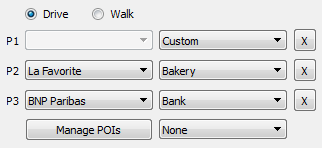
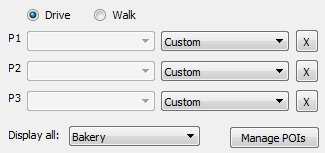
GUI C++ part of the report

diff --git a/SE_Report/Report_SE.tex b/SE_Report/Report_SE.tex
@@ -73,11 +73,11 @@ In order to manage the whole our project and its tasks, we have chosen the web-b
 \caption{Image of the task manager during the development process at early stages. The work is divided in four different boards with multiple drag and drop tasks and is assigned to one person}
 \end{figure}
 
-At the same time, real world meetings were not avoided. Normally we tried to establish team meeting at least once in a week. In such meetings we have discussed common problems, created good ideas or simply tried to brainstorm as many ideas as possible.Afterwards, the results of such meetings were definitely moved to the interactive board in \textit{Trello}.
+At the same time, real world meetings were not avoided. Normally, we tried to establish team meeting at least once in a week. In such meetings we have discussed common problems, created good ideas or simply tried to brainstorm as many ideas as possible.Afterwards, the results of such meetings were definitely moved to the interactive board in \textit{Trello}.
 
 \begin{figure}[!h]
 \centering
-\includegraphics[width=0.7\textwidth]{windowBoard.jpg}
+\includegraphics[width=0.6\textwidth]{windowBoard.jpg}
 \caption{One of the team meeting. Window is used as a white board to gather all ideas/problems.}
 \end{figure}
 
@@ -90,6 +90,8 @@ In both cases, Matlab and C++ implementation, the decision was to work with data
 
 Despite sharing the same EER schema, the database chosen for the Matlab part it is different from the one chosen for the C++ part. In this way, we decided to use PostgreSQL just because it is easier to make it work together with Matlab and using MySQL 5.6 with Qt which was more familiar to us. But also, the fact that we chose two different databases made us able to change between them if some problems of generation had been encountered. Note that we have used the correspondent browser of both platforms.
 
+Finally, a git server hosted in bitBucket (https://bitbucket.org) was used to control the different versions of the code and to be able to maintain work at the same time easily.
+
 \subsection{Related works}
 
 In order to be able to design a user-friendly and helpful application it is necessary to have a look to the current work, for instance GoogleMaps (https://maps.google.com/) or another non common but open-source solutions as MapGuide (http://mapguide.osgeo.org/) or OpenStreetMap (http://www.openstreetmap.org/). In fact checking the last solution we found the way to get most of the data required to render our map and to fulfil our databases. In addition, some of the information provided by this source was not used.
@@ -98,6 +100,7 @@ For user's information, \textit{OpenStreetMap} data is stored topological data s
 
 \textit{OpenStreetMap} has been a good provider of data but at the same time it has been necessary to adapt our database tables to the information obtained and in some cases to add some additional parameters because we have to take into account that this platform is not able to provide a route between two points, at least not in a direct way. For example, all elements as roads, forest, buildings, rivers, linear structures are represented as polygons of way elements, thus additional data filtering, subsets were used to prepare required datasets for implementation of project database.
 
+\clearpage
 \section{Application Design}
 In this section is explained how the application was devised starting by the definition of the database as well as the analysis of the use cases taking into account the user and the design of the resultant graphical user interface prototype.
 
@@ -154,19 +157,18 @@ With the aim of creating a robust database where solving the problems proposed b
 Here, we can identify two tables, its attributes and the relation between them which can e defined as N:M because of the fact that one node can belong to multiple roads, and one road have multiple nodes. But also this relationship has to be defined taking into account the order the node has in the road that belongs to, giving an attribute of the relationship called ORDER.
 
 On the other hand, the user has to be able to see the points of interest, create news, delete them and also modify the ones which already exist. We decided to create two tables in the same schema without any relationship with the previous tables in order to maintain the isolation from the points updated all the time because it does not belong to any specific road.
-The number of attributes considered from the very beginning for the points of interest (POI) table are: The ID and the position in LATITUDE and LONGITUDE, the NAME of the point, as well as the ADDRESS and the TYPE.
-
-Taking into account the previous steps, we can see the result of the database in the following schema:
+The number of attributes considered from the very beginning for the points of interest (POI) table are: The ID and the position in LATITUDE and LONGITUDE, the NAME of the point, as well as the ADDRESS and the TYPE. Taking into account the previous steps, we can see the result of the database in the following schema:
 
 \begin{figure}[h]
 \centering
-\includegraphics[width=0.6\textwidth]{big_schneider.png}
+\includegraphics[width=0.53\textwidth]{big_schneider.png}
 \caption{Diagram of the relational database model created during the design}
 \label{fig:RelDBdiagram}
 \end{figure}
 
-Notice that part of the process of development and parsing of the data from OpenStreetMap into our databases was accomplished together with the rest of the groups.
+Notice that part of the process of development and parsing of the data from OpenStreetMap into our databases was accomplished together with the rest of the groups as well as the large amount of points of interest collected from le Creusot. However, almost everything has been adapted to our specific requirements creating new tables, adding new columns and making homogeneous all information collected. 
 
+\clearpage
 \section{C++ Implementation}
 The present section has been divided in two different parts: The first one explains how the map structure is created evolving the three basic classes, the correspondent adjacency matrix depending on the choice of the user (walking or driving), how the shortest path is calculated using Dijkstra's algorithm and the logic behind the management of the points of interest. During the second part, we will focus on how the data is shown and obtained directly from the screen and its process of normalization and denormalization, taking into account the different spatial coordinates we work with during the implementation. But also we will see how the graphical user interface provides the input/output to the user and how is managed.
 
@@ -244,11 +246,7 @@ The following section describes a specific method of the \textit{map} class that
 First of all, the structure is allocated in memory and initialized to the maximum distance in all positions, in our case 0 units, and 0 in the diagonal of the squared matrix. Then, the rest of the matrix is filed taking into account the distance between the nodes identified by the index of the rows and columns of the matrix. From this point, the only thing we have to do is to go over the map structure checking which nodes are consecutive meaning that exists a connection between them. In this way, the position $M_{adj}(1,2)$ would contain the distance between node 1 and node 2. But what happens with the position $M_{adj}(2,1)$? This position contains the same distance if and only if the road is two ways, fact that can be checked querying the attribute \textit{oneWay} located in table \textit{Roads} in the database. 
 We can also take into account querying the database, if a road is a foot way or not and calculate the appropriate distance.
 On the other hand, people can work in both senses and also use all king of roads, so we can generate the adjacency matrix in the same way without the restrictions explained above. Notice that in order to calculate the distance between two nodes the method \textit{distNode()} was implemented in class \textit{node } following the formula of the euclidean distance. 
-However, during the process of development the number of nodes was increased in order to test the real performance of the algorithm with a larger number. It highlight the weaknesses of performance generating and storing the adjacency matrix in memory. Let us see and example:
-
-\begin{center}
-4 Bytes (float) * 84·$10^{6}$ (number of nodes) $\simeq$ 336 MB
-\end{center}
+However, during the process of development the number of nodes was increased in order to test the real performance of the algorithm with a larger number. It highlight the weaknesses of performance generating and storing the adjacency matrix in memory. Let us see and example: 4 Bytes (float) * 84·$10^{6}$ (number of nodes) $\simeq$ 336 MB
 
 In order to solve this issue and at the same time improving the access response to the elements, we decided to use sparse matrices to take out, somehow, all zeros that composes the adjacency matrix, reducing its size. For carrying out this task, we have used Eigen \footnote{Eigen is an open source C++ library of template headers for linear algebra, matrices, vectors and operations between them. See \url{ http://eigen.tuxfamily.org/index.php?title=Main_Page}} library. The main idea behind this is the compression of the data through the compressed sparse column (CCS) where the values are readed by column and a row index is stored for each one in a vector. Then, all non zero values are stored in an a new array. 
 
@@ -284,7 +282,6 @@ Finally, all these orders can be exported to a \textit{txt} file using \textit{g
 \caption{Example of road cross in the calculation of the route path}
 \end{figure}
 
-\clearpage
 \subsection{Points of interest}
 Regarding to the points of interest, our first decision was to keep them in the database because of the large list we had collected (around 200 points of interest of more than 20 types). However, this table has no relationship with table \textit{node} because, in general, all points have a specific location that does not correspond to any node in the map: Maybe because of the real latitude and longitude setted manually using a GPS or maybe because of the point pressed on the screen does not correspond to any node.
 
@@ -297,14 +294,18 @@ The graphical user interface of the C++ implementation has been one of the chall
 
 \subsubsection{Normalization and displaying}
 
---TO BE WRITTEN BY ANDREY-- 
+--TO BE WRITTEN BY ANDREY--
+
+-Explain process of normalization and denormalization.
+-Classes used using inheritance such as QGLWidget, UI or QmainWindow
+-Geo to OpenGL Coordinates and find closest
 
 \subsubsection{Selecting a route}
-In order to make the route selection as user friendly as possible, we have created a main menu which is able to perform all tasks related with routes divided in five parts (see figure ~\ref{fig:menu_poi}): Method of transport, type of point of interest in the second column, specific point of interest in the first column, deletion and points of interest management (explained in detail in section \ref{POI}).
+In order to make the route selection as user friendly as possible, we have created a main menu which is able to perform all tasks related with routes divided in five parts (see figure~\ref{fig:menu_poi}): Method of transport, type of point of interest in the second column, specific point of interest in the first column, deletion and points of interest management (explained in detail in section \ref{POI}).
 
 Fist of all, the user has to select the way of transport using the radio button. Once it is selected, whatever point of the map can be pressed as initial point "Custom" or by contrast, a point of interest can be selected in the first column sorting by type in the second one and finally, be setted as initial point. We also can do exactly the same with a target point, selecting from the map or from the list filtering by type. Moreover, we could select a third point in the same way and define a shortest path between an initial and end point, and a target in the middle. For sure, whatever of the three points could be deleted from the path maintaining the rest of the route unbroken.
 
-However, we have to take into account that for fiding the path to, for instance, the closest bakery, it does it calculating first the euclidean distance between all bakeries and then doing dijkstra to the closest one. This is because the cost to perform the shortest path to all bakeries and compare the distance is computationally really expensive despite the fact that is easy to code.
+However, we have to take into account that for finding the path to, for instance, the closest bakery, it does it calculating first the euclidean distance between all bakeries and then doing Dijkstra to the closest one. This is because the cost to perform the shortest path to all bakeries and compare the distance is computationally really expensive despite the fact that is easy to code.
 
 In this way, we can get the distance of the whole path as well as the route path for the user in order to reach the different targets and also export this route as a \textit{txt} file.
 
@@ -316,8 +317,27 @@ In this way, we can get the distance of the whole path as well as the route path
 \end{figure}
 
 \subsubsection{Points of interest management} \label{POI}
-The most simple thing we can do regarding to the points of interest is to show them according to the type belong to as we could see in figure ~\ref{fig:menu_poi}.
-In addition, the points of interest basically has three different functions that are: Searching for specific point, modify an already existing point of interest and also create a new one pressing directly in the position desired in the map. 
+The most simple thing we can do regarding to the points of interest is to show them according to the type they belong to as we could see in figure~\ref{fig:menu_poi}: We can select the type in the box "display all". In addition, the points of interest basically has three different functions that are: Searching for specific point, modifying an already existing point of interest or creating a new one. For the first two options we can press directly the button "Manage POIs" that will open a form sheet, see figure~\ref{fig:sub1}, where we can obtain different information such as address, coordinates, name and in some cases an image of the place. It is important to notice that since we are looking for information all fields are shown disabled. However, it the radio button is changed to "Edit" we could modify some parameters related with the place as is shown in image~\ref{fig:sub2}: Name, address, type of point of interest or image. As a final option, the point can be deleted using the correspondent button or execute the query for the data base saving the changes.
+
+\begin{figure}[h]
+\centering
+\begin{subfigure}{0.5\textwidth}
+  \centering
+  \includegraphics[width=.8\linewidth]{form.png}
+  \caption{Searching mode}
+  \label{fig:sub1}
+\end{subfigure}%
+\begin{subfigure}{0.5\textwidth}
+  \centering
+  \includegraphics[width=.8\linewidth]{form1.png}
+  \caption{Editing mode}
+  \label{fig:sub2}
+\end{subfigure}
+\caption{The different options can be available or not depending on the Browse or edit function in the radio button}
+\label{fig:test}
+\end{figure}
+
+Since no coordinates has been selected form the map, if has pressed the radio button "New" nothing would have happened, showing a pop-up to the user suggesting to press a point from the screen. Then, the way to have access to create a new point of interest is to press first a point on the screen. Basically, the image showed remains the same but with empty fields and taking care of fill all parameters
 
 \clearpage
 \section{Matlab Implementation}
@@ -676,7 +696,7 @@ See the next figure to try to understand how it works.
 
 \begin{figure}[h]
 \centering
-\includegraphics[width=0.4\textwidth]{map_plot}
+\includegraphics[width=0.3\textwidth]{map_plot}
 \caption{Map}
 \label{fig:map_plot}
 \end{figure}
@@ -706,5 +726,44 @@ When calling the function \textit{twoInputShortestPath} we cannot give the handl
 The files of data are stored in \textit{dependencies\textbackslash data}. The two important ones for the GUI are \textit{POIdata.mat} and \textit{POIClasses.mat}. The first one is a file that contains all the points of interest gathered by all the groups. We needed some filtering of this data before storing it here since some data was wrong. The file is a matrix of cells and it contains as many rows as POIs has and 5 columns. In these we can find the latitude, longitude, name, class and address of each POI.
 
 We access this cells in different parts of the program depending on which data do we need. When we create a new class filter we preserve this 5 columns but we only select a few POIs. Then we store it directly in the handles instead of saving it in a file.
+
+\clearpage
+\section{Appendix}
+
+- Documentation, resources and additional files can be found at (check Readme.txt file): 
+
+https://www.dropbox.com/sh/a5p2kn4xmv2177m/6uM1AEL8Lv
+
+- We can show some of the more important functions and their relationships in the following diagrams regarding to the C++ implementation:
+
+\begin{figure}[h]
+\centering
+\includegraphics[width=0.7\textwidth]{2.png}
+\caption{Whatever change in the list of points of interest as well as the events in the map screen generates a recalculation of the route path shown.}
+\end{figure}
+
+\begin{figure}[h]
+\centering
+\includegraphics[width=0.8\textwidth]{4.png}
+\caption{When we add a point, the coordinates of this one has to be normalized to be displayed in the map because the range is too small for OpenGL. In addtion, if the point is created pressing the screen, it has to be linked to a node using 'findClosest' to be able to calculate the paths. For doing that, we perform Dijkstra's algorithm generating an 'output' and printing it (\textit{PrintPath()}) with the estimation time (\textit{CalcTime}). Then , we are ready to calculate the instructions checking the angles between the nodes and the distance between them.}
+\end{figure}
+
+\begin{figure}[h]
+\centering
+\includegraphics[width=0.8\textwidth]{6.png}
+\caption{When MapGLWidget is generated the first time, we query the data base to compose the map and normalize the values and according to these points, the adjacency matrix is composed using the 'disNode' function.}
+\end{figure}
+
+\begin{figure}[h]
+\centering
+\includegraphics[width=0.6\textwidth]{8.png}
+\caption{When a point of interest is modified using the correspondent form, the following methods are used to set the new parameters}
+\end{figure}
+
+\begin{figure}[h]
+\centering
+\includegraphics[width=0.8\textwidth]{9.png}
+\caption{The diagram shows the times that a query to the data base is executed: Firstly, when we load initially the data structure in the MapGLWidget. Secondly, when we have to add, delete or modify a point of interest. And finally, when we display the points of interest filtering by type.}
+\end{figure}
 
 \end{document}
